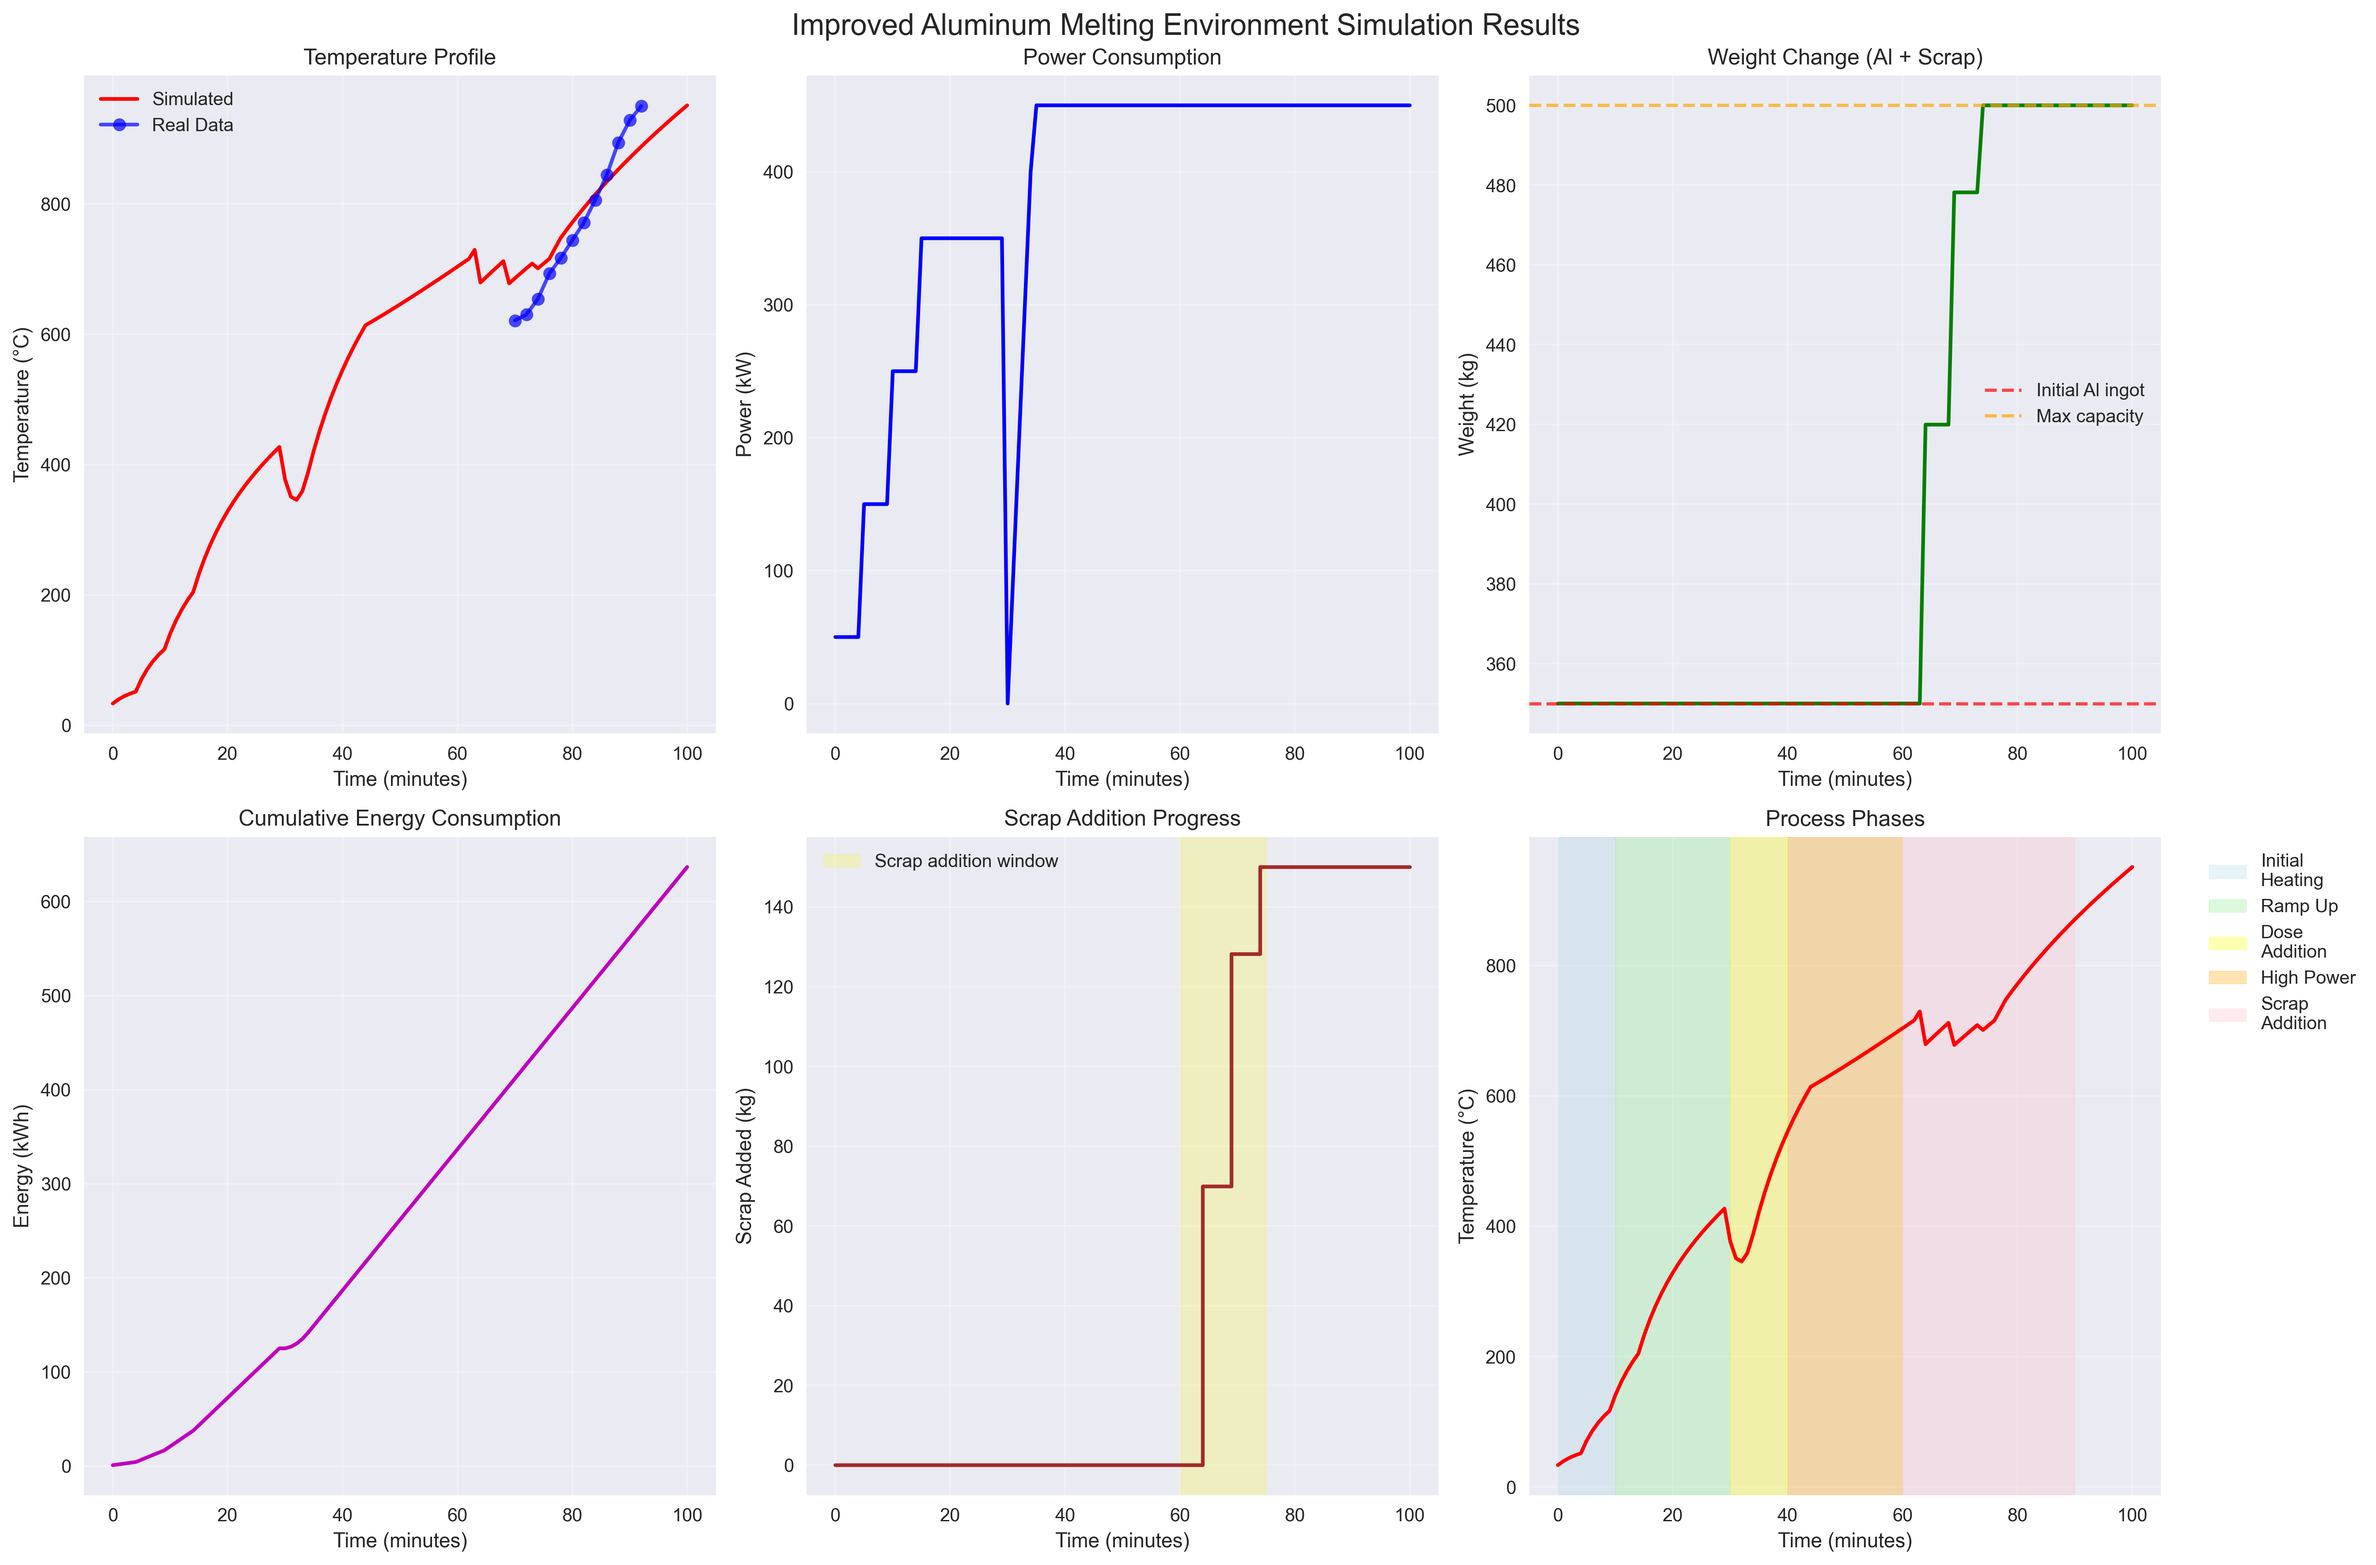
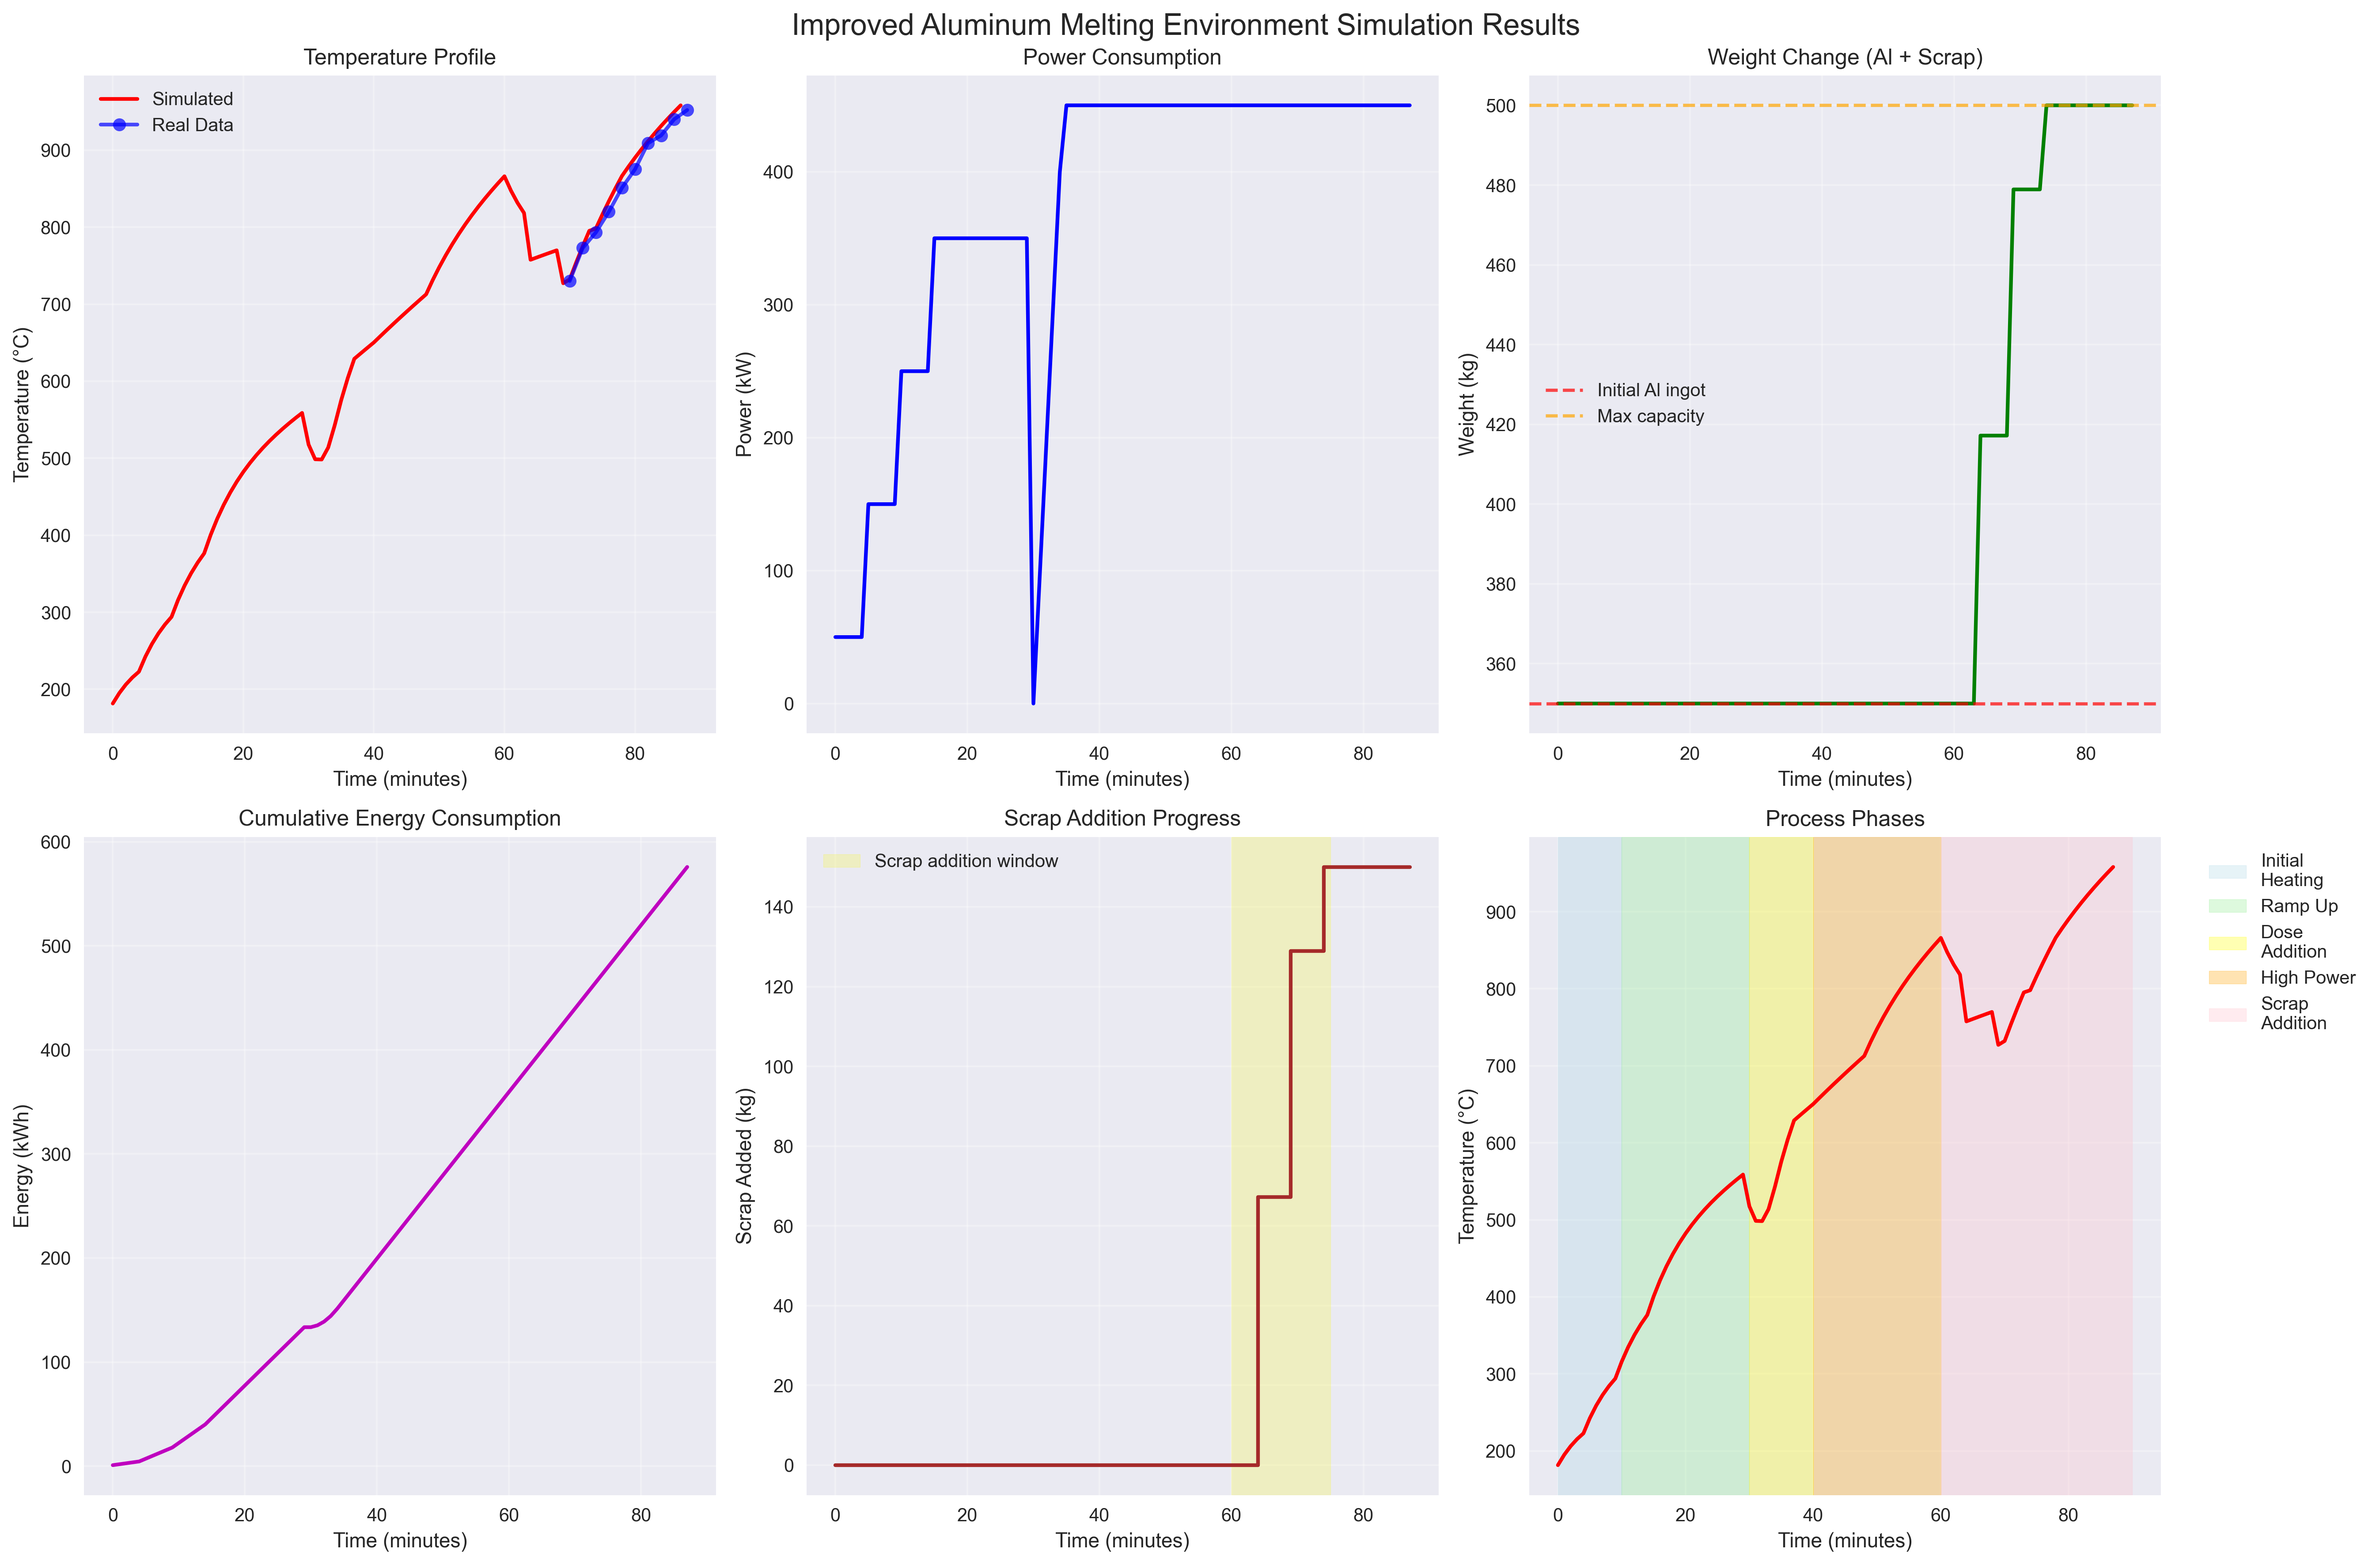
fix env 10

diff --git a/src/environment/aluminum_melting_env_10.py b/src/environment/aluminum_melting_env_10.py
@@ -38,15 +38,29 @@ class AluminumMeltingEnvironment:
         use_fixed_scrap_schedule=False,
         fixed_scrap_schedule=None,  # list of (time_sec, weight_kg)
         # ---------- power handling ----------
-        overall_efficiency=0.93,  # fraction of electrical power that becomes useful heat (0..1)
-        eff_to_metal=0.90,  # SPLIT WEIGHT to metal (will be normalized)
-        eff_to_wall=0.05,  # SPLIT WEIGHT to wall  (will be normalized)
+        overall_efficiency=0.9326,  # fraction of electrical power that becomes useful heat (0..1)
+        eff_to_metal=0.8726,  # SPLIT WEIGHT to metal (will be normalized)
+        eff_to_wall=0.0269,  # SPLIT WEIGHT to wall  (will be normalized)
+        use_time_efficiency=True,
+        time_efficiency_schedule=[
+            (0, 0.80),
+            (30, 0.80),  # จบช่วงแรก
+            (30, 0.90),  # เริ่มช่วงใหม่แบบ step
+            (40, 0.90),
+            (40, 0.95),
+            (60, 0.95),
+            (60, 0.50),
+            (70, 0.50),
+            (70, 0.98),
+            # (70, 0.98),
+            (90, 0.98),  # ต่อไปยาวๆ
+        ],
         # ---------- wall-metal coupling ----------
-        k_wall_metal=1300.0,  # W/K base coupling (cold). hot override below
-        k_dT_alpha=0.0015,  # state-dependent reduction: k_eff = k / (1 + alpha*|Tw-Tm|)
-        hot_k_wall_metal=1700.0,  # W/K base coupling in hot start (main hot-start fix)
+        k_wall_metal=800,  # W/K base coupling (cold). hot override below
+        k_dT_alpha=0.0003,  # state-dependent reduction: k_eff = k / (1 + alpha*|Tw-Tm|)
+        hot_k_wall_metal=1100.0,  # W/K base coupling in hot start (main hot-start fix)
         hot_k_early_factor=0.80,  # additional factor for first hot minutes (e.g., 0-10 min)
-        hot_early_minutes=10,  # minutes
+        hot_early_minutes=100,  # minutes
         wall_heat_capacity_J_per_K=2.5e6,  # J/K effective wall inertia
         # ---------- wall losses ----------
         wall_area_m2=3.5,
@@ -54,14 +68,14 @@ class AluminumMeltingEnvironment:
         wall_emissivity=0.55,
         # ---------- metal losses (keep modest to avoid double counting) ----------
         metal_area_m2=1.0,
-        metal_h_W_m2K=3.5,
-        metal_emissivity=0.06,  # cold default
+        metal_h_W_m2K=2.79,
+        metal_emissivity=0.005,  # cold default
         hot_metal_emissivity=0.18,  # slightly higher in hot start (helps slow hot curve)
         # ---------- latent heat handling ----------
         melting_point_c=660.0,
         latent_band_c=50.0,
-        latent_scale=0.35,
-        post_melt_scale=0.80,
+        latent_scale=0.324,
+        post_melt_scale=0.803,
         # ---------- scrap effects ----------
         scrap_temp_drop_scale=0.50,
         scrap_recent_scale=0.80,
@@ -77,6 +91,13 @@ class AluminumMeltingEnvironment:
         max_capacity_kg=500,
         ambient_temp_c=25,
         max_temp_c=1000,
+        # ---------- energy metering ----------
+        energy_consumption_scale=1.068,  # scale factor for electrical kWh meter
+        auxiliary_power_kw=0.0,  # constant auxiliary load (e.g., fans, pumps)
+        # ---------- high-power efficiency drop ----------
+        high_power_eff_start_kw=450.0,  # start reducing thermal efficiency above this
+        high_power_eff_end_kw=500.0,  # efficiency reaches min at this power
+        high_power_eff_min=0.95,  # minimum multiplier for thermal efficiency
     ):
         self.rng = np.random.default_rng(seed)
 
@@ -112,6 +133,10 @@ class AluminumMeltingEnvironment:
 
         # power handling
         self.overall_eff = float(np.clip(overall_efficiency, 0.05, 0.98))
+        self.use_time_efficiency = bool(use_time_efficiency)
+        self.time_efficiency_schedule = (
+            list(time_efficiency_schedule) if time_efficiency_schedule else []
+        )
 
         # treat eff_to_metal/eff_to_wall as weights and normalize
         w_m = max(0.0, float(eff_to_metal))
@@ -194,6 +219,17 @@ class AluminumMeltingEnvironment:
         }
 
         self._dT_wall = 0.0
+
+        # energy metering
+        self.energy_consumption_scale = float(max(0.0, energy_consumption_scale))
+        self.auxiliary_power_kw = float(max(0.0, auxiliary_power_kw))
+
+        # high-power efficiency drop
+        self.high_power_eff_start_kw = float(max(0.0, high_power_eff_start_kw))
+        self.high_power_eff_end_kw = float(
+            max(self.high_power_eff_start_kw, high_power_eff_end_kw)
+        )
+        self.high_power_eff_min = float(np.clip(high_power_eff_min, 0.3, 1.0))
 
     def reset(self):
         self.current_mass = float(self.initial_mass)
@@ -351,7 +387,9 @@ class AluminumMeltingEnvironment:
         P_watt = float(self.state["power"]) * 1000.0
 
         # (1) total usable heat from electrical power
-        Q_total = P_watt * self.overall_eff
+        eff_total = self._get_overall_efficiency(t_min)
+        eff_total *= self._power_efficiency_factor(self.state["power"])
+        Q_total = P_watt * eff_total
 
         # (2) split to metal/wall (normalized weights)
         # Optional: in hot start early minutes, metal split can be reduced slightly
@@ -405,6 +443,44 @@ class AluminumMeltingEnvironment:
         self._dT_wall = float(dT_w)
 
         return float(dT_m)
+
+    # ----------------------------
+    # Efficiency (optional schedule)
+    # ----------------------------
+    def _get_overall_efficiency(self, t_min: float):
+        """Return effective efficiency, optionally from a time schedule."""
+        if not self.use_time_efficiency or not self.time_efficiency_schedule:
+            return float(self.overall_eff)
+
+        schedule = sorted(self.time_efficiency_schedule, key=lambda x: x[0])
+        if t_min <= schedule[0][0]:
+            return float(np.clip(schedule[0][1], 0.05, 0.98))
+        if t_min >= schedule[-1][0]:
+            return float(np.clip(schedule[-1][1], 0.05, 0.98))
+
+        for (t0, e0), (t1, e1) in zip(schedule[:-1], schedule[1:]):
+            if t0 <= t_min <= t1:
+                if t1 == t0:
+                    eff = e1
+                else:
+                    alpha = (t_min - t0) / (t1 - t0)
+                    eff = e0 + alpha * (e1 - e0)
+                return float(np.clip(eff, 0.05, 0.98))
+
+        return float(self.overall_eff)
+
+    def _power_efficiency_factor(self, power_kw: float):
+        """Extra efficiency drop at high electrical power."""
+        if power_kw <= self.high_power_eff_start_kw:
+            return 1.0
+        if self.high_power_eff_end_kw <= self.high_power_eff_start_kw:
+            return float(self.high_power_eff_min)
+
+        alpha = (power_kw - self.high_power_eff_start_kw) / (
+            self.high_power_eff_end_kw - self.high_power_eff_start_kw
+        )
+        alpha = float(np.clip(alpha, 0.0, 1.0))
+        return float(1.0 + alpha * (self.high_power_eff_min - 1.0))
 
     # ----------------------------
     # Step
@@ -468,8 +544,9 @@ class AluminumMeltingEnvironment:
         self.state["time"] = float(self.state["time"]) + float(self.dt)
 
         # energy consumption
-        self.state["energy_consumption"] += float(
-            (self.state["power"] * self.dt) / 3600.0
+        metered_power_kw = float(self.state["power"]) + self.auxiliary_power_kw
+        self.state["energy_consumption"] += (
+            float((metered_power_kw * self.dt) / 3600.0) * self.energy_consumption_scale
         )
 
         # weight update

diff --git a/src/test_improved_env.py b/src/test_improved_env.py
@@ -25,7 +25,8 @@ def test_improved_environment():
         target_temp_c=target_temp_c,
         scrap_addition_start=64 * 60,
         scrap_addition_end=74 * 60,
-        start_mode="cold",
+        # start_mode="cold",
+        start_mode="hot",
     )
 
     # เริ่มต้นสภาพแวดล้อม
@@ -142,13 +143,32 @@ def create_simulation_plots(
     # real_times = [80, 81, 82, 83, 84, 85, 86, 87, 88, 89, 90]
     # real_temps = [676, 698, 735, 759, 784, 809, 820, 845, 863, 888, 910]
 
-    # cold start
-    real_times = [70, 72, 74, 76, 78, 80, 82, 84, 86, 88, 90, 92]
-    real_temps = [621, 630, 654, 693, 717, 744, 771, 806, 844, 894, 928, 950]
+    # # cold start version original
+    # real_times = [70, 72, 74, 76, 78, 80, 82, 84, 86, 88, 90, 92, 94, 96]
+    # real_temps = [621, 630, 654, 693, 717, 744, 771, 806, 844, 894, 928, 950, 950, 950]
 
-    # # hot start
-    # real_times = [70, 72, 74, 76, 78, 80, 82, 84, 86, 88]
-    # real_temps = [745, 771, 793, 818, 851, 886, 919, 930, 941, 950]
+    # # cold start
+    # real_times = [70, 72, 74, 76, 78, 80, 82, 84, 86, 88, 90, 92, 94, 96]
+    # real_temps = [
+    #     649,
+    #     668,
+    #     685,
+    #     714,
+    #     737,
+    #     757,
+    #     786,
+    #     802,
+    #     823,
+    #     853,
+    #     881,
+    #     907,
+    #     932,
+    #     956,
+    # ]
+
+    # hot start
+    real_times = [70, 72, 74, 76, 78, 80, 82, 84, 86, 88]
+    real_temps = [730, 773, 793, 820, 851, 875, 909, 919, 940, 952]
 
     axes[0, 0].plot(
         real_times, real_temps, "bo-", linewidth=2, label="Real Data", alpha=0.7
